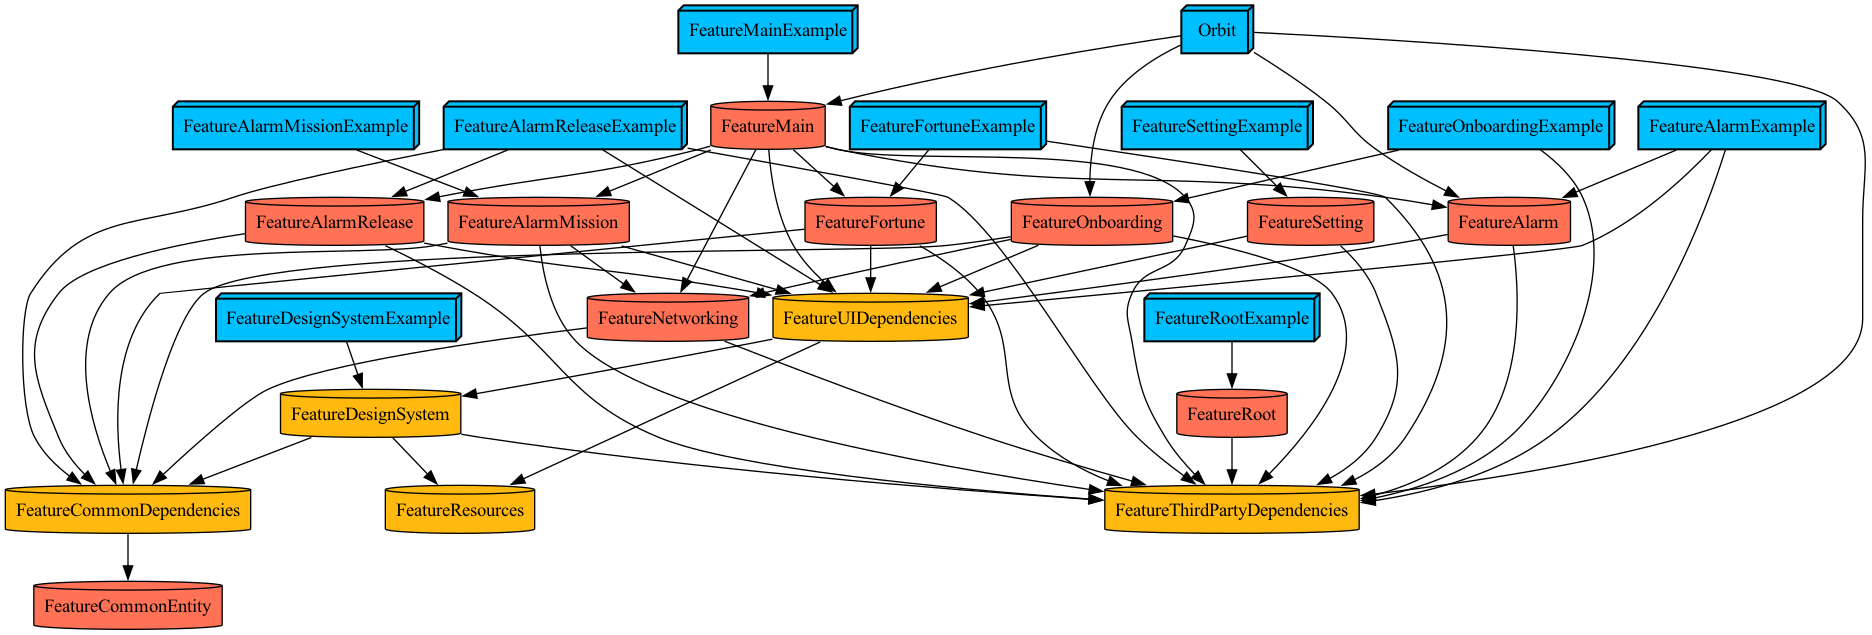
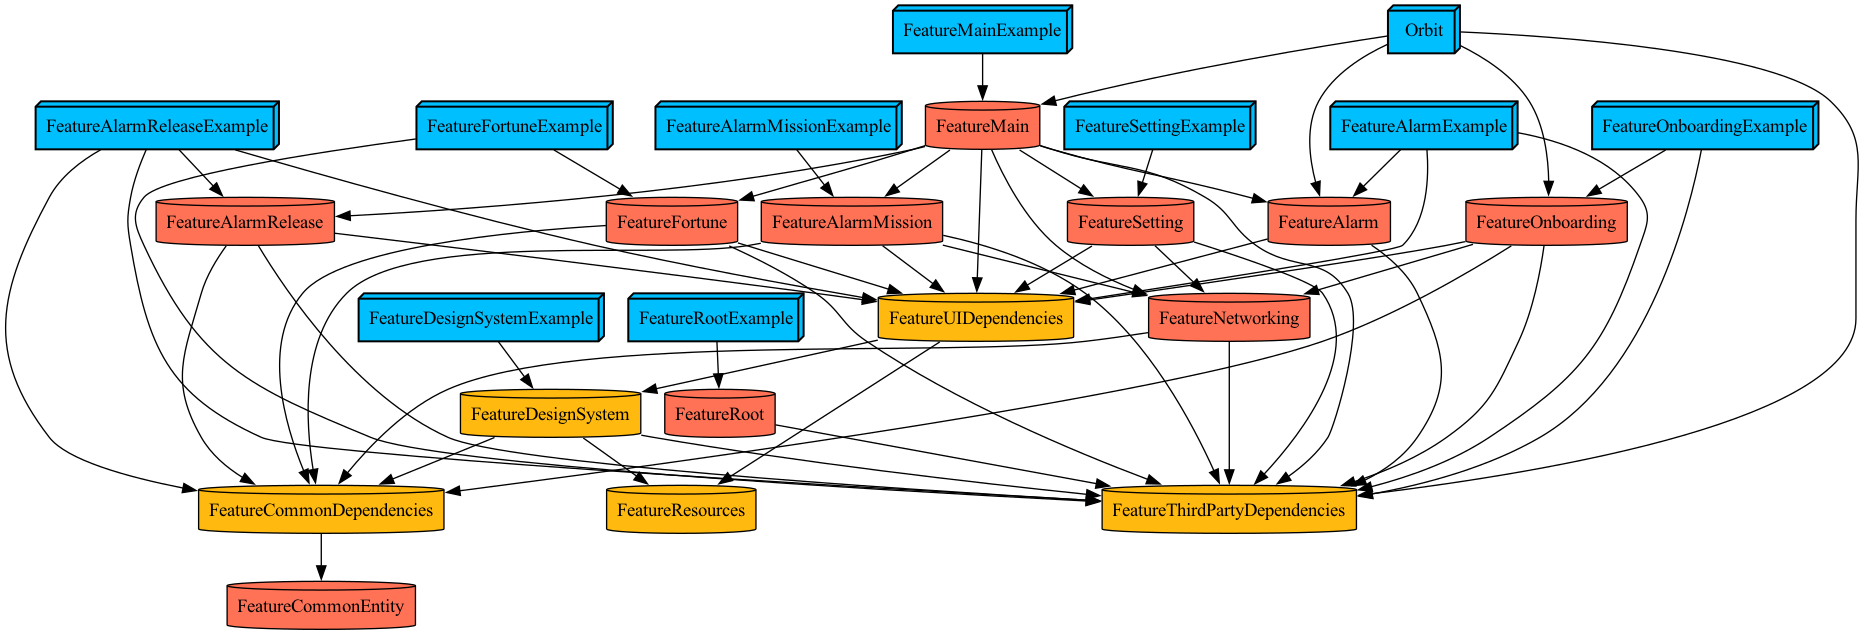
Feat, 메인화면 바텀시트 풀 -> 하프 전환문제 해결

diff --git a/Projects/Feature/Main/Feature/Sources/Views/MainPageView.swift b/Projects/Feature/Main/Feature/Sources/Views/MainPageView.swift
@@ -79,7 +79,6 @@ final class MainPageView: UIView, UITableViewDelegate, AlarmDeletionViewListener
     // - ResizableContentView
     private let resizableContentView = UIView()
     private let resizableContentViewDockView = DockView()
-    private let resizableContentViewDockViewDrageArea = UIView()
     private let resizableContentViewDragRecognizer = UIPanGestureRecognizer()
     private var resizableContentViewScreenState: resizableContentViewScreenState = .half
     private var resizableContentViewTopConstraintWhenHalf: Constraint?
@@ -264,13 +263,8 @@ private extension MainPageView {
         resizableContentView.addSubview(deleteAlarmGroupBarView)
         
         
-        // resizableContentViewDockViewDrageArea
-        resizableContentViewDockViewDrageArea.backgroundColor = .clear
-        addSubview(resizableContentViewDockViewDrageArea)
-        setupResizableContentViewDrag()
-        
-        
         // alarmTableView
+        alarmTableView.isScrollEnabled = false
         setupAlarmTableView()
         
         
@@ -281,6 +275,8 @@ private extension MainPageView {
             listener?.action(.alarmsWillDelete)
         }
         resizableContentView.addSubview(deleteGroupAlarmConfirmButton)
+        
+        setupResizableContentViewDrag()
     }
     
     
@@ -562,21 +558,12 @@ private extension MainPageView {
             make.horizontalEdges.equalToSuperview()
             make.bottom.equalTo(resizableContentView.snp.top)
         }
-        
-        
-        // resizableContentViewDockViewDrageArea
-        resizableContentViewDockViewDrageArea.snp.makeConstraints { make in
-            make.top.equalTo(resizableContentViewDockView)
-                .offset(-ResizableContentViewConfig.drageAreaOffsetOverDock)
-            make.bottom.equalTo(alarmToolBarContainerView.snp.top)
-            make.horizontalEdges.equalToSuperview()
-            make.bottom.greaterThanOrEqualTo(self.safeAreaLayoutGuide.snp.top)
-        }
     }
     
     
     func setupResizableContentViewDrag() {
-        resizableContentViewDockViewDrageArea.addGestureRecognizer(resizableContentViewDragRecognizer)
+        resizableContentView.addGestureRecognizer(resizableContentViewDragRecognizer)
+        resizableContentViewDragRecognizer.cancelsTouchesInView = false
         resizableContentViewDragRecognizer.addTarget(self, action: #selector(resizeDragOccurred(_:)))
     }
     
@@ -587,44 +574,55 @@ private extension MainPageView {
         if panGestureVelocity.y < ResizableContentViewConfig.minVelocityForFullScreen {
             // 풀스크린 변환 조건 충족
             if self.resizableContentViewScreenState == .half {
-                resizableContentViewDragRecognizer.isEnabled = false
-                self.resizableContentViewScreenState = .full
-                UIView.animate(withDuration: ResizableContentViewConfig.transitionDuration) {
-                    self.resizableContentView.layer.cornerRadius = ResizableContentViewConfig.cornerRadiusWhenFull
-                    
-                    // 레이아웃 조정
-                    self.resizableContentViewTopConstraintWhenFull?.activate()
-                    self.resizableContentViewTopConstraintWhenHalf?.deactivate()
-                    
-
-                    self.layoutIfNeeded()
-                } completion: { _ in
-                    self.resizableContentViewDragRecognizer.isEnabled = true
-                }
+                chagneTofullScreenMode()
             }
             return
         }
+    }
+    
+    func chagneTofullScreenMode() {
+        // 풀스크린 변환 제스처 비활성화
+        resizableContentViewDragRecognizer.isEnabled = false
         
+        // tableView스크롤 가능
+        alarmTableView.isScrollEnabled = true
         
-        if panGestureVelocity.y > ResizableContentViewConfig.minVelocityForHalfScreen {
-            // 하프스크린 변환 조건 충족
-            if self.resizableContentViewScreenState == .full {
-                self.resizableContentViewScreenState = .half
-                self.resizableContentViewDragRecognizer.isEnabled = false
-                UIView.animate(withDuration: ResizableContentViewConfig.transitionDuration) {
-                    self.resizableContentView.layer.cornerRadius = ResizableContentViewConfig.cornerRadiusWhenHalf
-                    
-                    // 레이아웃 조정
-                    self.resizableContentViewTopConstraintWhenFull?.deactivate()
-                    self.resizableContentViewTopConstraintWhenHalf?.activate()
-                    
-                    self.layoutIfNeeded()
-                } completion: { _ in
-                    self.resizableContentViewDragRecognizer.isEnabled = true
-                }
-            }
+        self.resizableContentViewScreenState = .full
+        resizableContentViewDragRecognizer.isEnabled = false
+        UIView.animate(withDuration: ResizableContentViewConfig.transitionDuration) {
+            self.resizableContentView.layer.cornerRadius = ResizableContentViewConfig.cornerRadiusWhenFull
+            
+            // 레이아웃 조정
+            self.resizableContentViewTopConstraintWhenHalf?.deactivate()
+            self.resizableContentViewTopConstraintWhenFull?.activate()
+            
+
+            self.layoutIfNeeded()
+        } completion: { _ in
+            self.resizableContentViewDragRecognizer.isEnabled = true
         }
+    }
+    
+    func changeToHalfScreenMode() {
+        // 풀스크린 변환 제스처 활성화
+        resizableContentViewDragRecognizer.isEnabled = true
         
+        // tableView스크롤 불가
+        alarmTableView.isScrollEnabled = false
+        
+        self.resizableContentViewScreenState = .half
+        self.resizableContentViewDragRecognizer.isEnabled = false
+        UIView.animate(withDuration: ResizableContentViewConfig.transitionDuration) {
+            self.resizableContentView.layer.cornerRadius = ResizableContentViewConfig.cornerRadiusWhenHalf
+            
+            // 레이아웃 조정
+            self.resizableContentViewTopConstraintWhenFull?.deactivate()
+            self.resizableContentViewTopConstraintWhenHalf?.activate()
+            
+            self.layoutIfNeeded()
+        } completion: { _ in
+            self.resizableContentViewDragRecognizer.isEnabled = true
+        }
     }
 }
 
@@ -698,6 +696,12 @@ extension MainPageView {
         // Swipe to commit
         configuration.performsFirstActionWithFullSwipe = true
         return configuration
+    }
+    
+    func scrollViewDidScroll(_ scrollView: UIScrollView) {
+        if scrollView.contentOffset.y < 0, self.resizableContentViewScreenState == .full {
+            changeToHalfScreenMode()
+        }
     }
 }
 

diff --git a/Projects/Feature/CommonEntity/Project.swift b/Projects/Feature/CommonEntity/Project.swift
@@ -19,7 +19,7 @@ let project = Project(
             deploymentTargets: Project.Environment.deploymentTarget,
             sources: ["Feature/Sources/**"],
             dependencies: [
-                
+                .feature(implements: .Resources),
             ]
         ),
     ]
